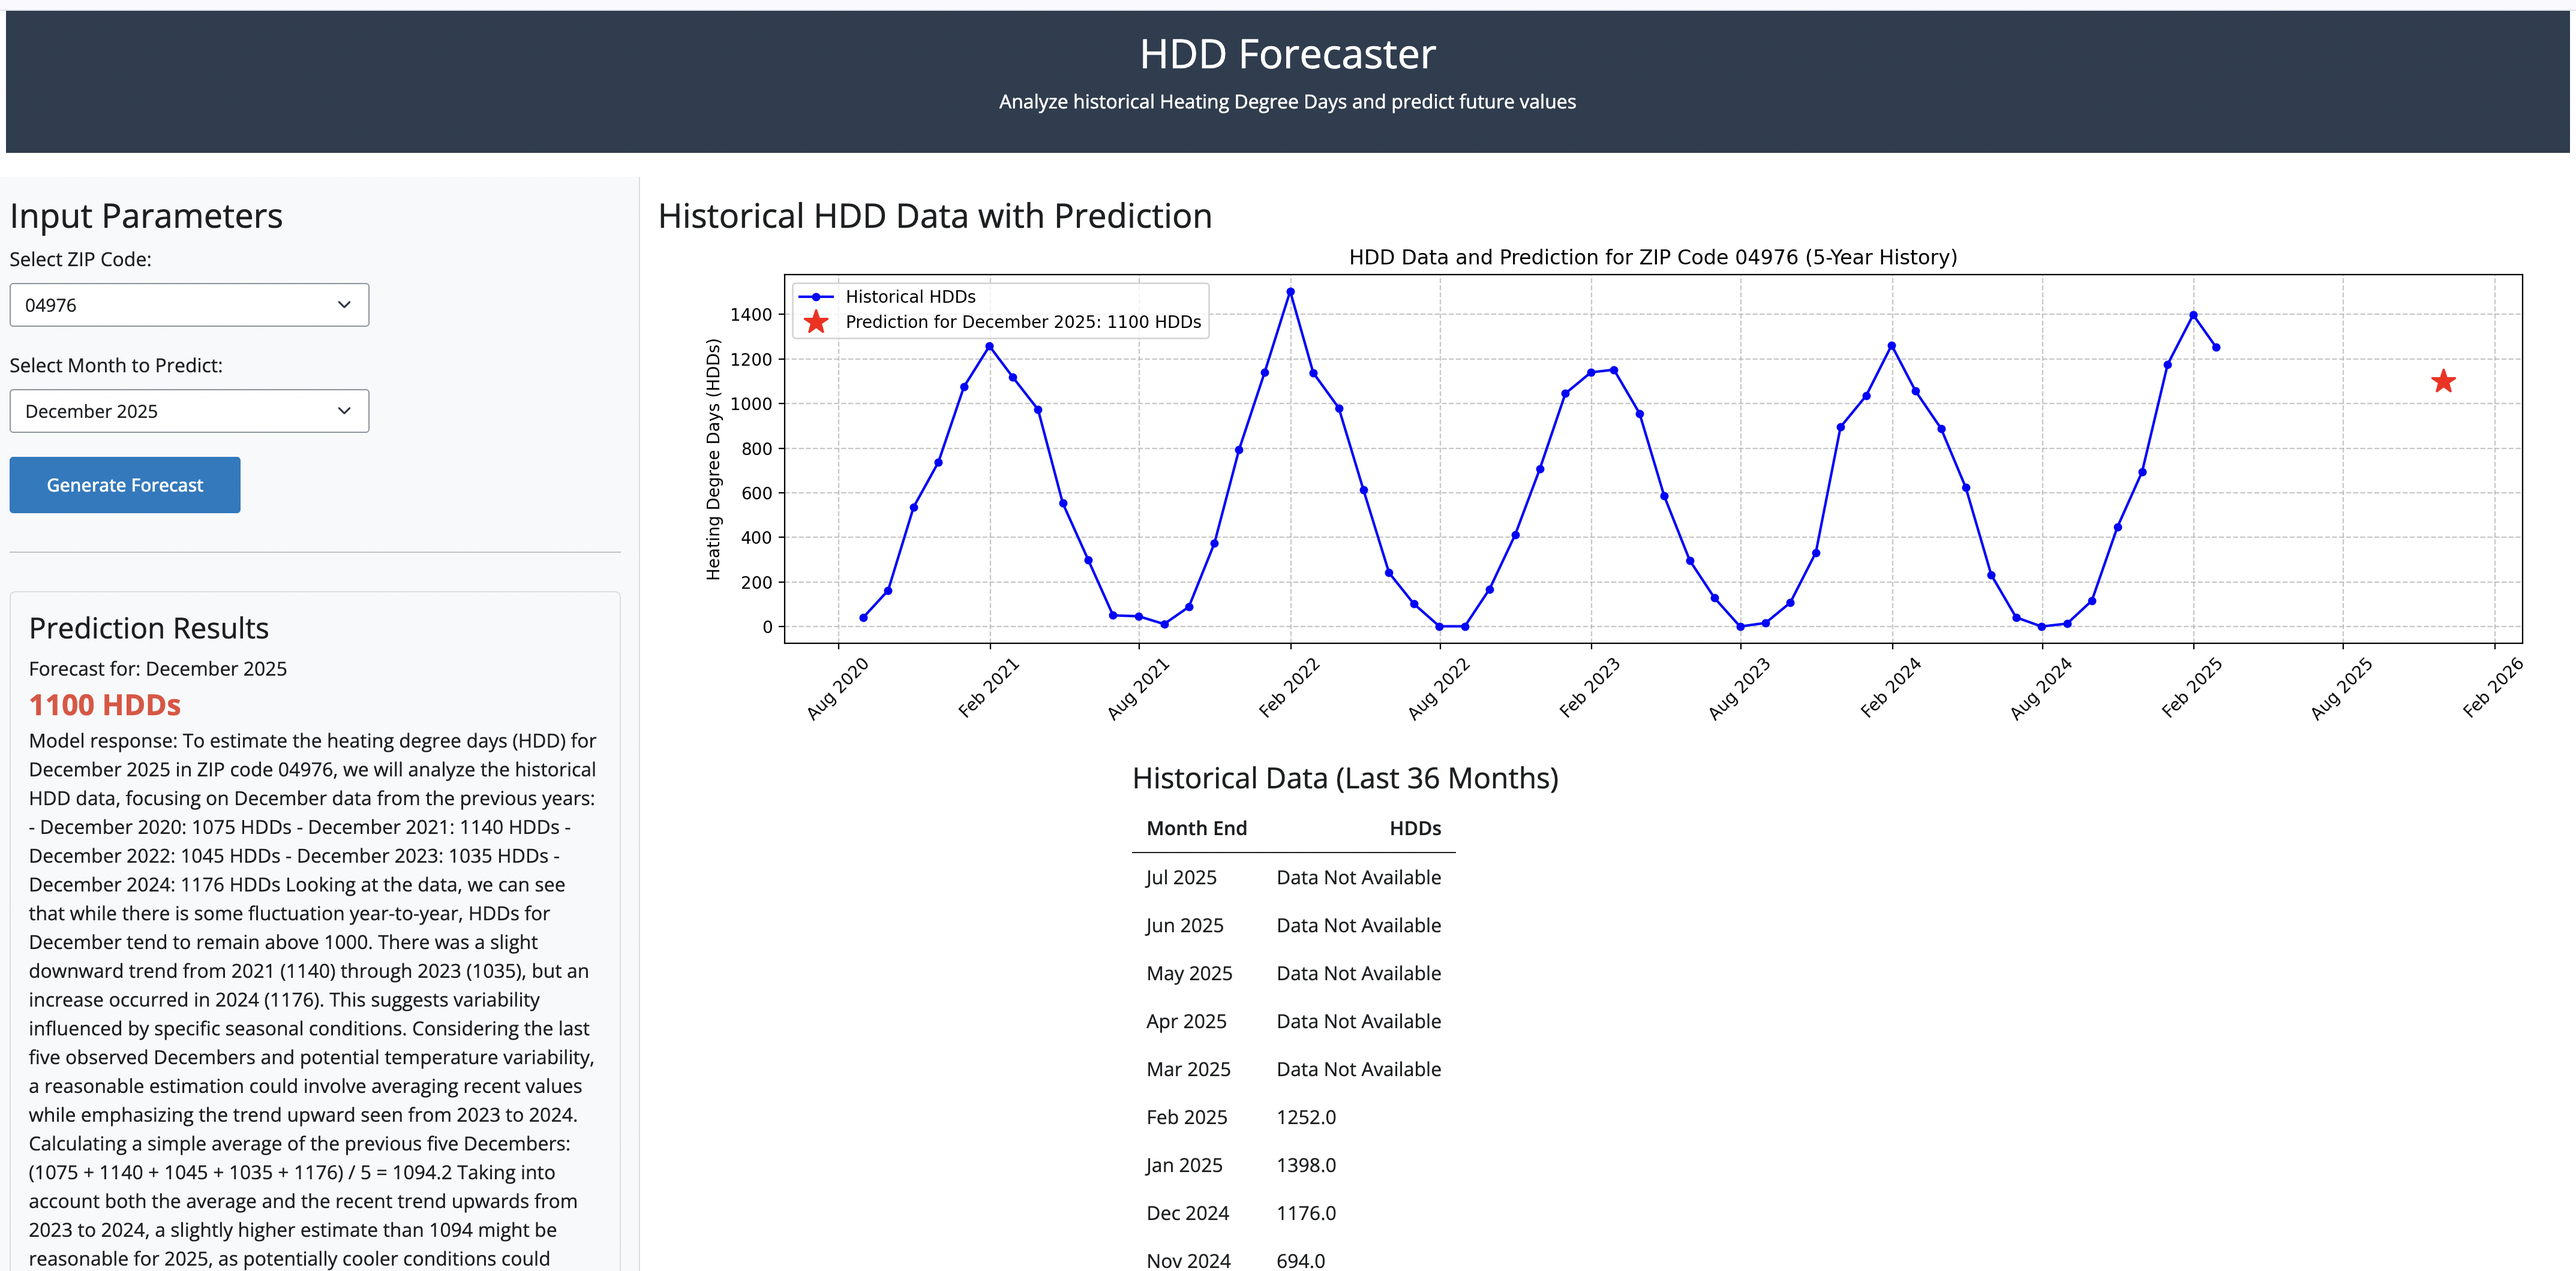
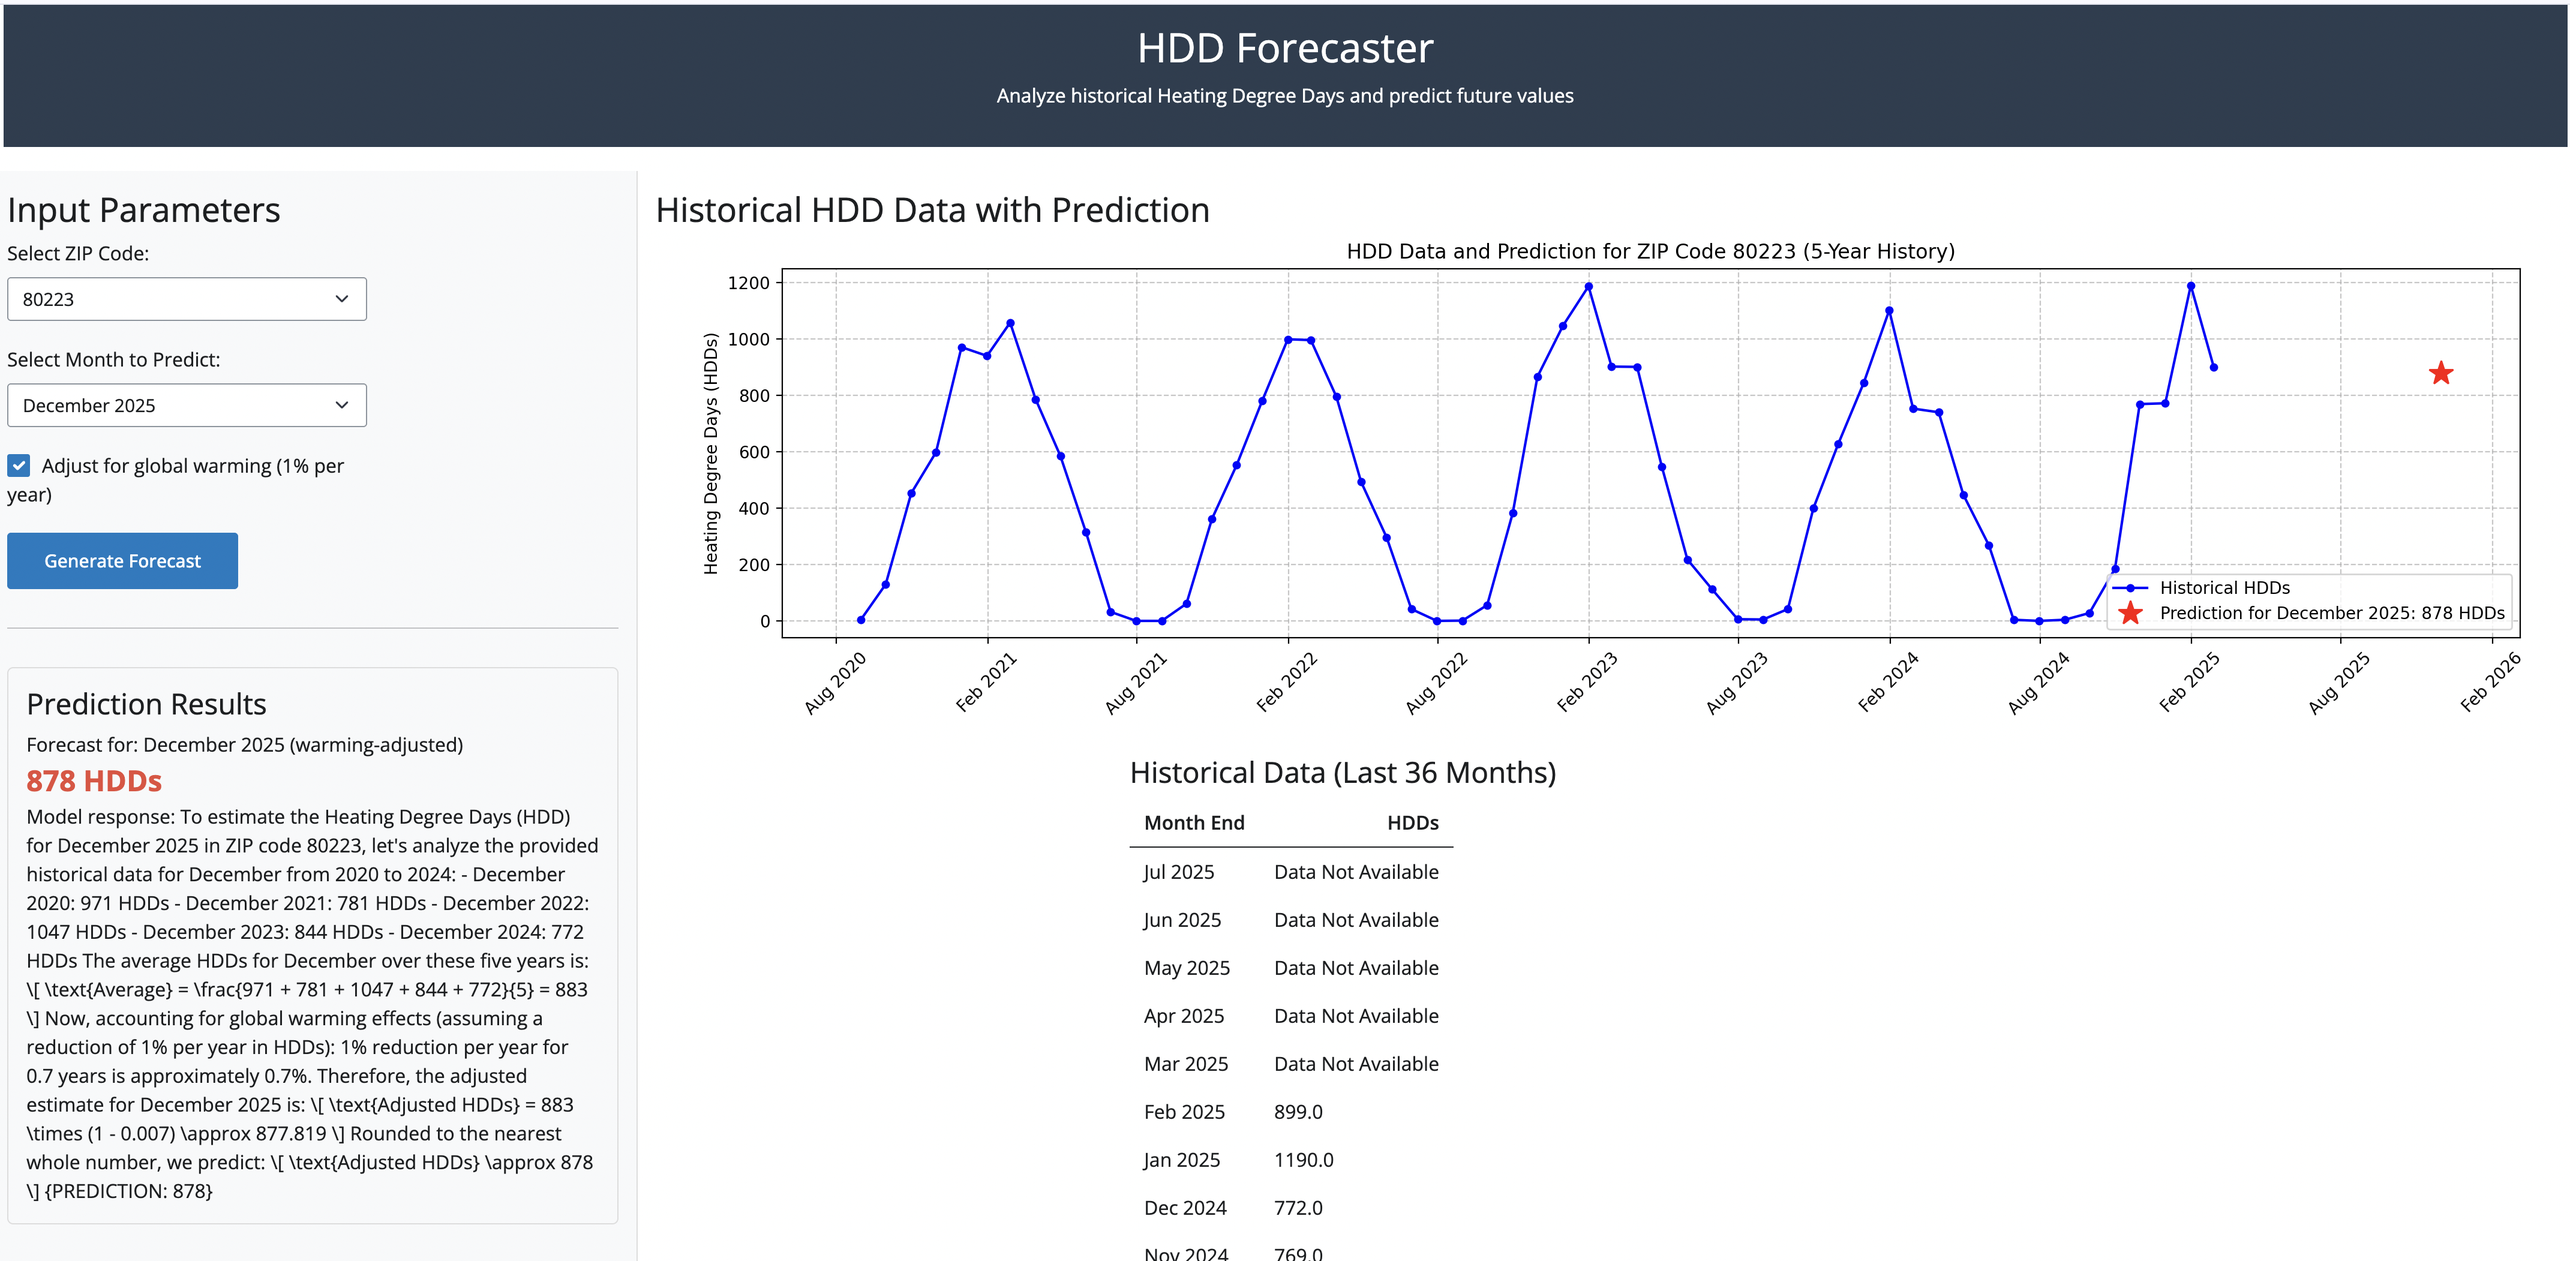
global warming

diff --git a/app.py b/app.py
@@ -78,24 +78,50 @@ tools = [
 ]
 
 # Get prediction for specified month
-def call_openai(zipcode: str, target_date):
+def call_openai(zipcode: str, target_date, adjust_for_warming=False):
     # Format the target date
     target_month_name = target_date.strftime("%B %Y")
     today = datetime.now()
     
-    user_prompt = (
+    # Base prompt
+    base_prompt = (
         f"Today is {today.strftime('%B %d, %Y')}. Please estimate the HDDs for {target_month_name} in ZIP code {zipcode} "
         f"using the historical data provided. Analyze seasonal patterns and trends in the data."
+    )
+    
+    # Add global warming adjustment instruction if requested
+    if adjust_for_warming:
+        # Calculate years from now to target date
+        years_forward = (target_date.year - today.year) + (target_date.month - today.month) / 12
+        
+        warming_prompt = (
+            f"\n\nIMPORTANT: Adjust your estimate to account for global warming effects. "
+            f"Assume a warming trend of approximately 1% fewer HDDs per year relative to historical averages. "
+            f"Since you're predicting {years_forward:.1f} years into the future, "
+            f"reduce your baseline estimate by approximately {years_forward:.1f}% to account for this warming trend."
+        )
+        base_prompt += warming_prompt
+    
+    # Add the structured output format instruction
+    format_instruction = (
         f"\n\nAfter your analysis, end your response with a clear numerical prediction in this exact format:"
         f"\n\n{{PREDICTION: X}} where X is your single numeric estimate for {target_month_name}'s HDD value."
         f"\n\nFor example: {{PREDICTION: 123}} if you predict 123 HDDs."
     )
-
+    
+    user_prompt = base_prompt + format_instruction
+    
+    # Create system message with conditional instruction
+    system_message = f"Today is {today.strftime('%B %d, %Y')}. You are helping estimate heating degree days for {target_month_name}."
+    if adjust_for_warming:
+        system_message += " Include global warming effects (1% reduction per year) in your estimate."
+    system_message += " Always end your response with {PREDICTION: X} where X is your numerical estimate."
+    
     # Step 1: Ask the model what tool it wants to use
     chat = client.chat.completions.create(
         model="gpt-4o",
         messages=[
-            {"role": "system", "content": f"Today is {today.strftime('%B %d, %Y')}. You are helping estimate heating degree days for {target_month_name}. Always end your response with {{PREDICTION: X}} where X is your numerical estimate."},
+            {"role": "system", "content": system_message},
             {"role": "user", "content": user_prompt}
         ],
         tools=tools,
@@ -229,8 +255,9 @@ app_ui = ui.page_fluid(
         ui.column(3, 
             {"class": "sidebar"},
             ui.h3("Input Parameters"),
-            ui.input_select("zipcode", "Select ZIP Code:", get_unique_zip_codes()),  # Changed to dropdown
+            ui.input_select("zipcode", "Select ZIP Code:", get_unique_zip_codes()),
             ui.input_select("target_month", "Select Month to Predict:", generate_month_options()),
+            ui.input_checkbox("adjust_for_warming", "Adjust for global warming (1% per year)", value=False),
             ui.input_action_button("submit", "Generate Forecast", class_="btn-primary"),
             ui.hr(),
             ui.div(
@@ -283,8 +310,11 @@ def server(input, output, session):
         target_month_str = input.target_month()
         target_date = datetime.strptime(target_month_str, "%Y-%m-%d")
         
-        # Get prediction from OpenAI
-        prediction_text, target_date, raw_data = call_openai(zipcode, target_date)
+        # Get checkbox value
+        adjust_for_warming = input.adjust_for_warming()
+        
+        # Get prediction from OpenAI with global warming adjustment if requested
+        prediction_text, target_date, raw_data = call_openai(zipcode, target_date, adjust_for_warming)
         predicted_hdd = extract_hdd_value(prediction_text)
         
         # Update reactive values
@@ -293,14 +323,16 @@ def server(input, output, session):
             "value": predicted_hdd,
             "date": target_date,
             "raw_data": raw_data if raw_data else "No data available",
-            "zipcode": zipcode
+            "zipcode": zipcode,
+            "warming_adjusted": adjust_for_warming
         })
     
     @output
     @render.text
     def prediction_month():
         if prediction_data().get("date"):
-            return f"Forecast for: {prediction_data()['date'].strftime('%B %Y')}"
+            warming_text = " (warming-adjusted)" if prediction_data().get("warming_adjusted") else ""
+            return f"Forecast for: {prediction_data()['date'].strftime('%B %Y')}{warming_text}"
         return "No prediction yet. Select a ZIP code and month, then click 'Generate Forecast'."
     
     @output

diff --git a/README.md b/README.md
@@ -17,11 +17,12 @@ It supports:
 
 ## 🚀 Features
 
-- 🔎 **ZIP Code Lookup**: Select from available ZIPs in your dataset.
-- 📆 **Target Month Selection**: Choose a month to forecast HDDs.
-- 🤖 **AI-Powered Estimation**: GPT-4o uses recent HDD history to generate a forecast and explain its reasoning.
-- 📊 **Line Plot**: Visualizes historical HDDs with your forecast highlighted.
-- 📋 **Table**: Tabular display of historical values (last 36 months).
+- 📍 Select a ZIP code from the historical dataset  
+- 📅 Choose a future month to forecast  
+- 📈 Visualize 5 years of historical HDD data  
+- 🤖 Get an AI-powered forecast for next month's HDDs using OpenAI GPT-4o  
+- 🌡 Optional checkbox to adjust predictions for global warming (1% reduction per year)  
+- 🧠 Extracts AI predictions using structured format `{PREDICTION: X}`  
 
 ---
 
